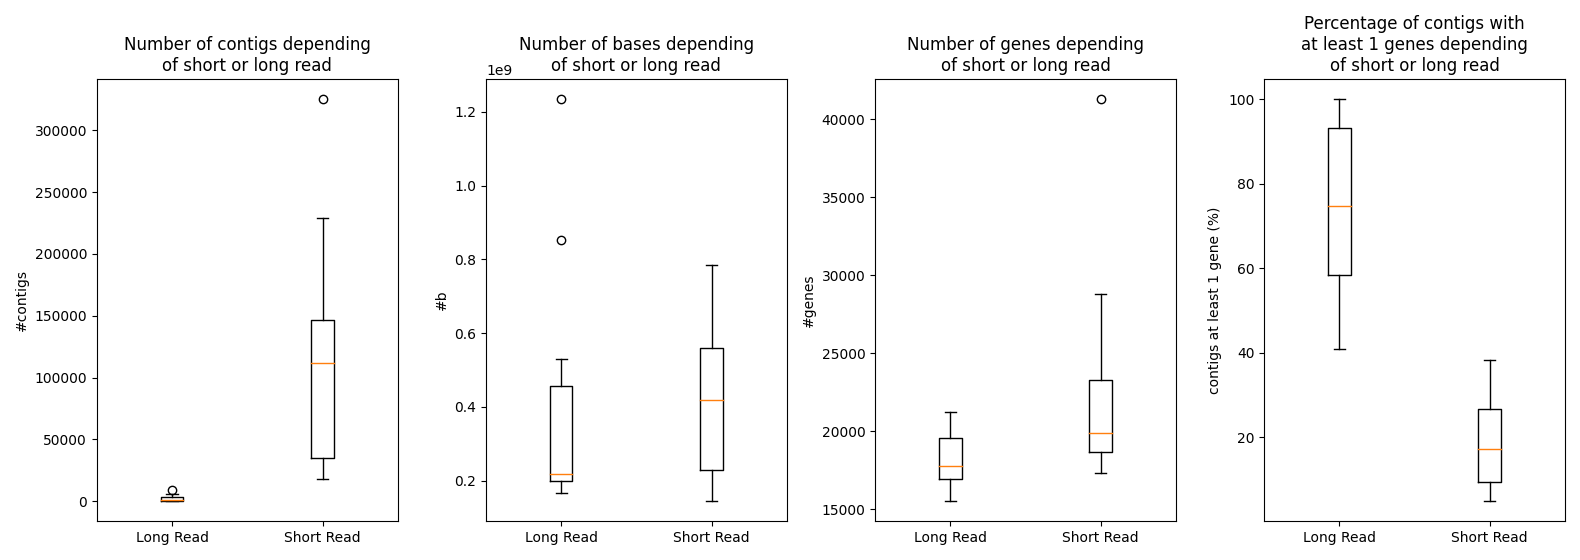
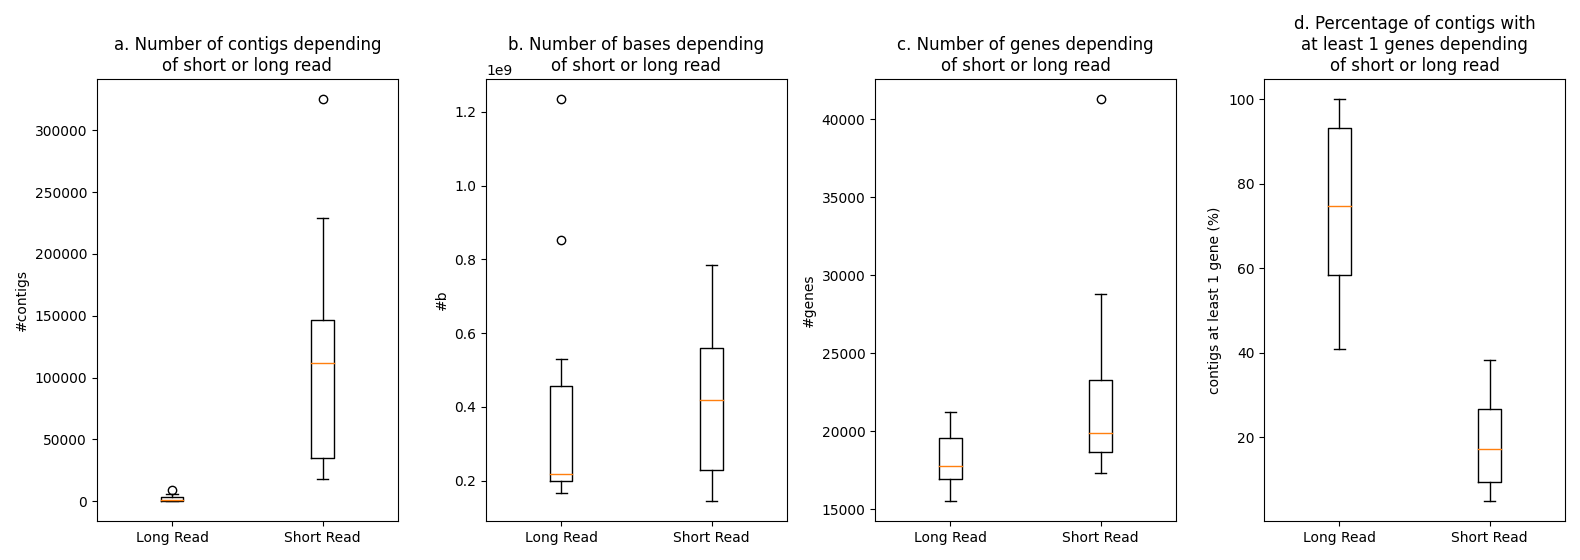
add fnc analyse gbk boxplot

diff --git a/analyse_gbk.py b/analyse_gbk.py
@@ -55,10 +55,10 @@ def boxplot_gbk_groups(group1_file, group2_file, outpath):
     df_g2 = pd.read_csv(group2_file, sep="\t", index_col=0)
     fig = plt.figure(figsize=[15.8, 5.6])
     i = 1
-    titles = ("Number of contigs depending\nof short or long read",
-              "Number of bases depending\nof short or long read",
-              "Number of genes depending\nof short or long read",
-              "Percentage of contigs with\nat least 1 genes depending\n"
+    titles = ("a. Number of contigs depending\nof short or long read",
+              "b. Number of bases depending\nof short or long read",
+              "c. Number of genes depending\nof short or long read",
+              "d. Percentage of contigs with\nat least 1 genes depending\n"
               "of short or long read")
 
     for prop in col:
